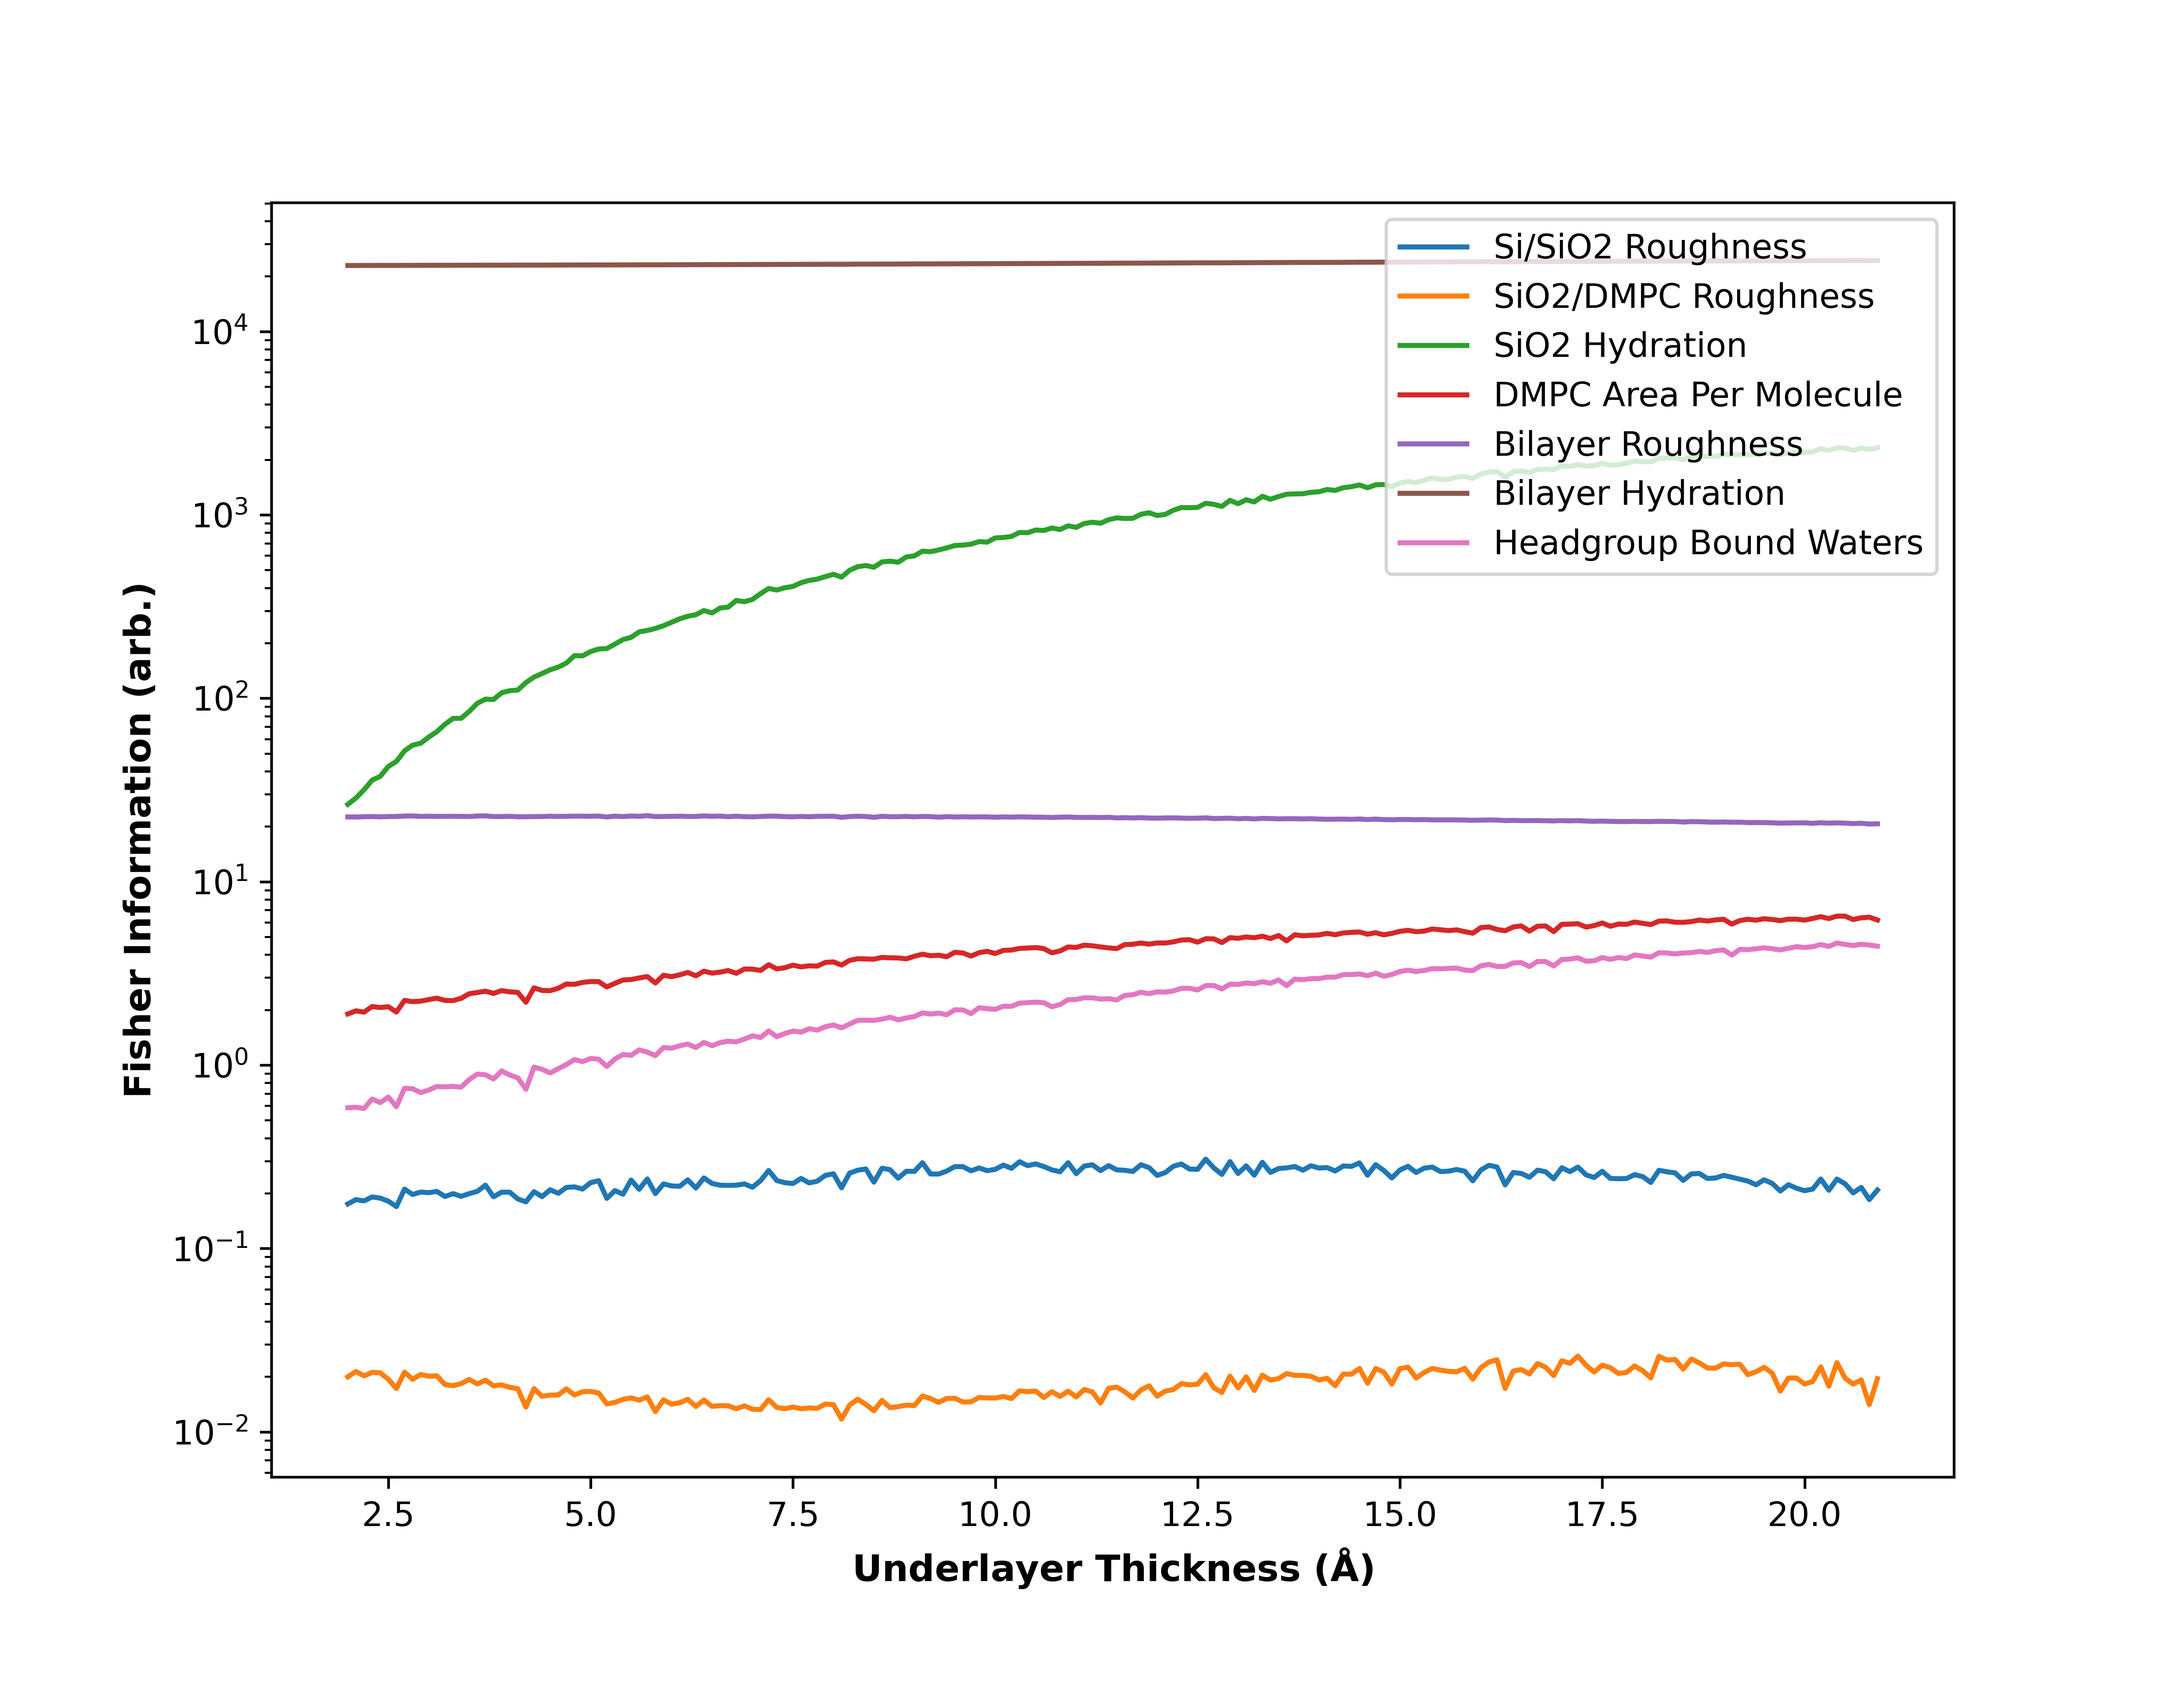
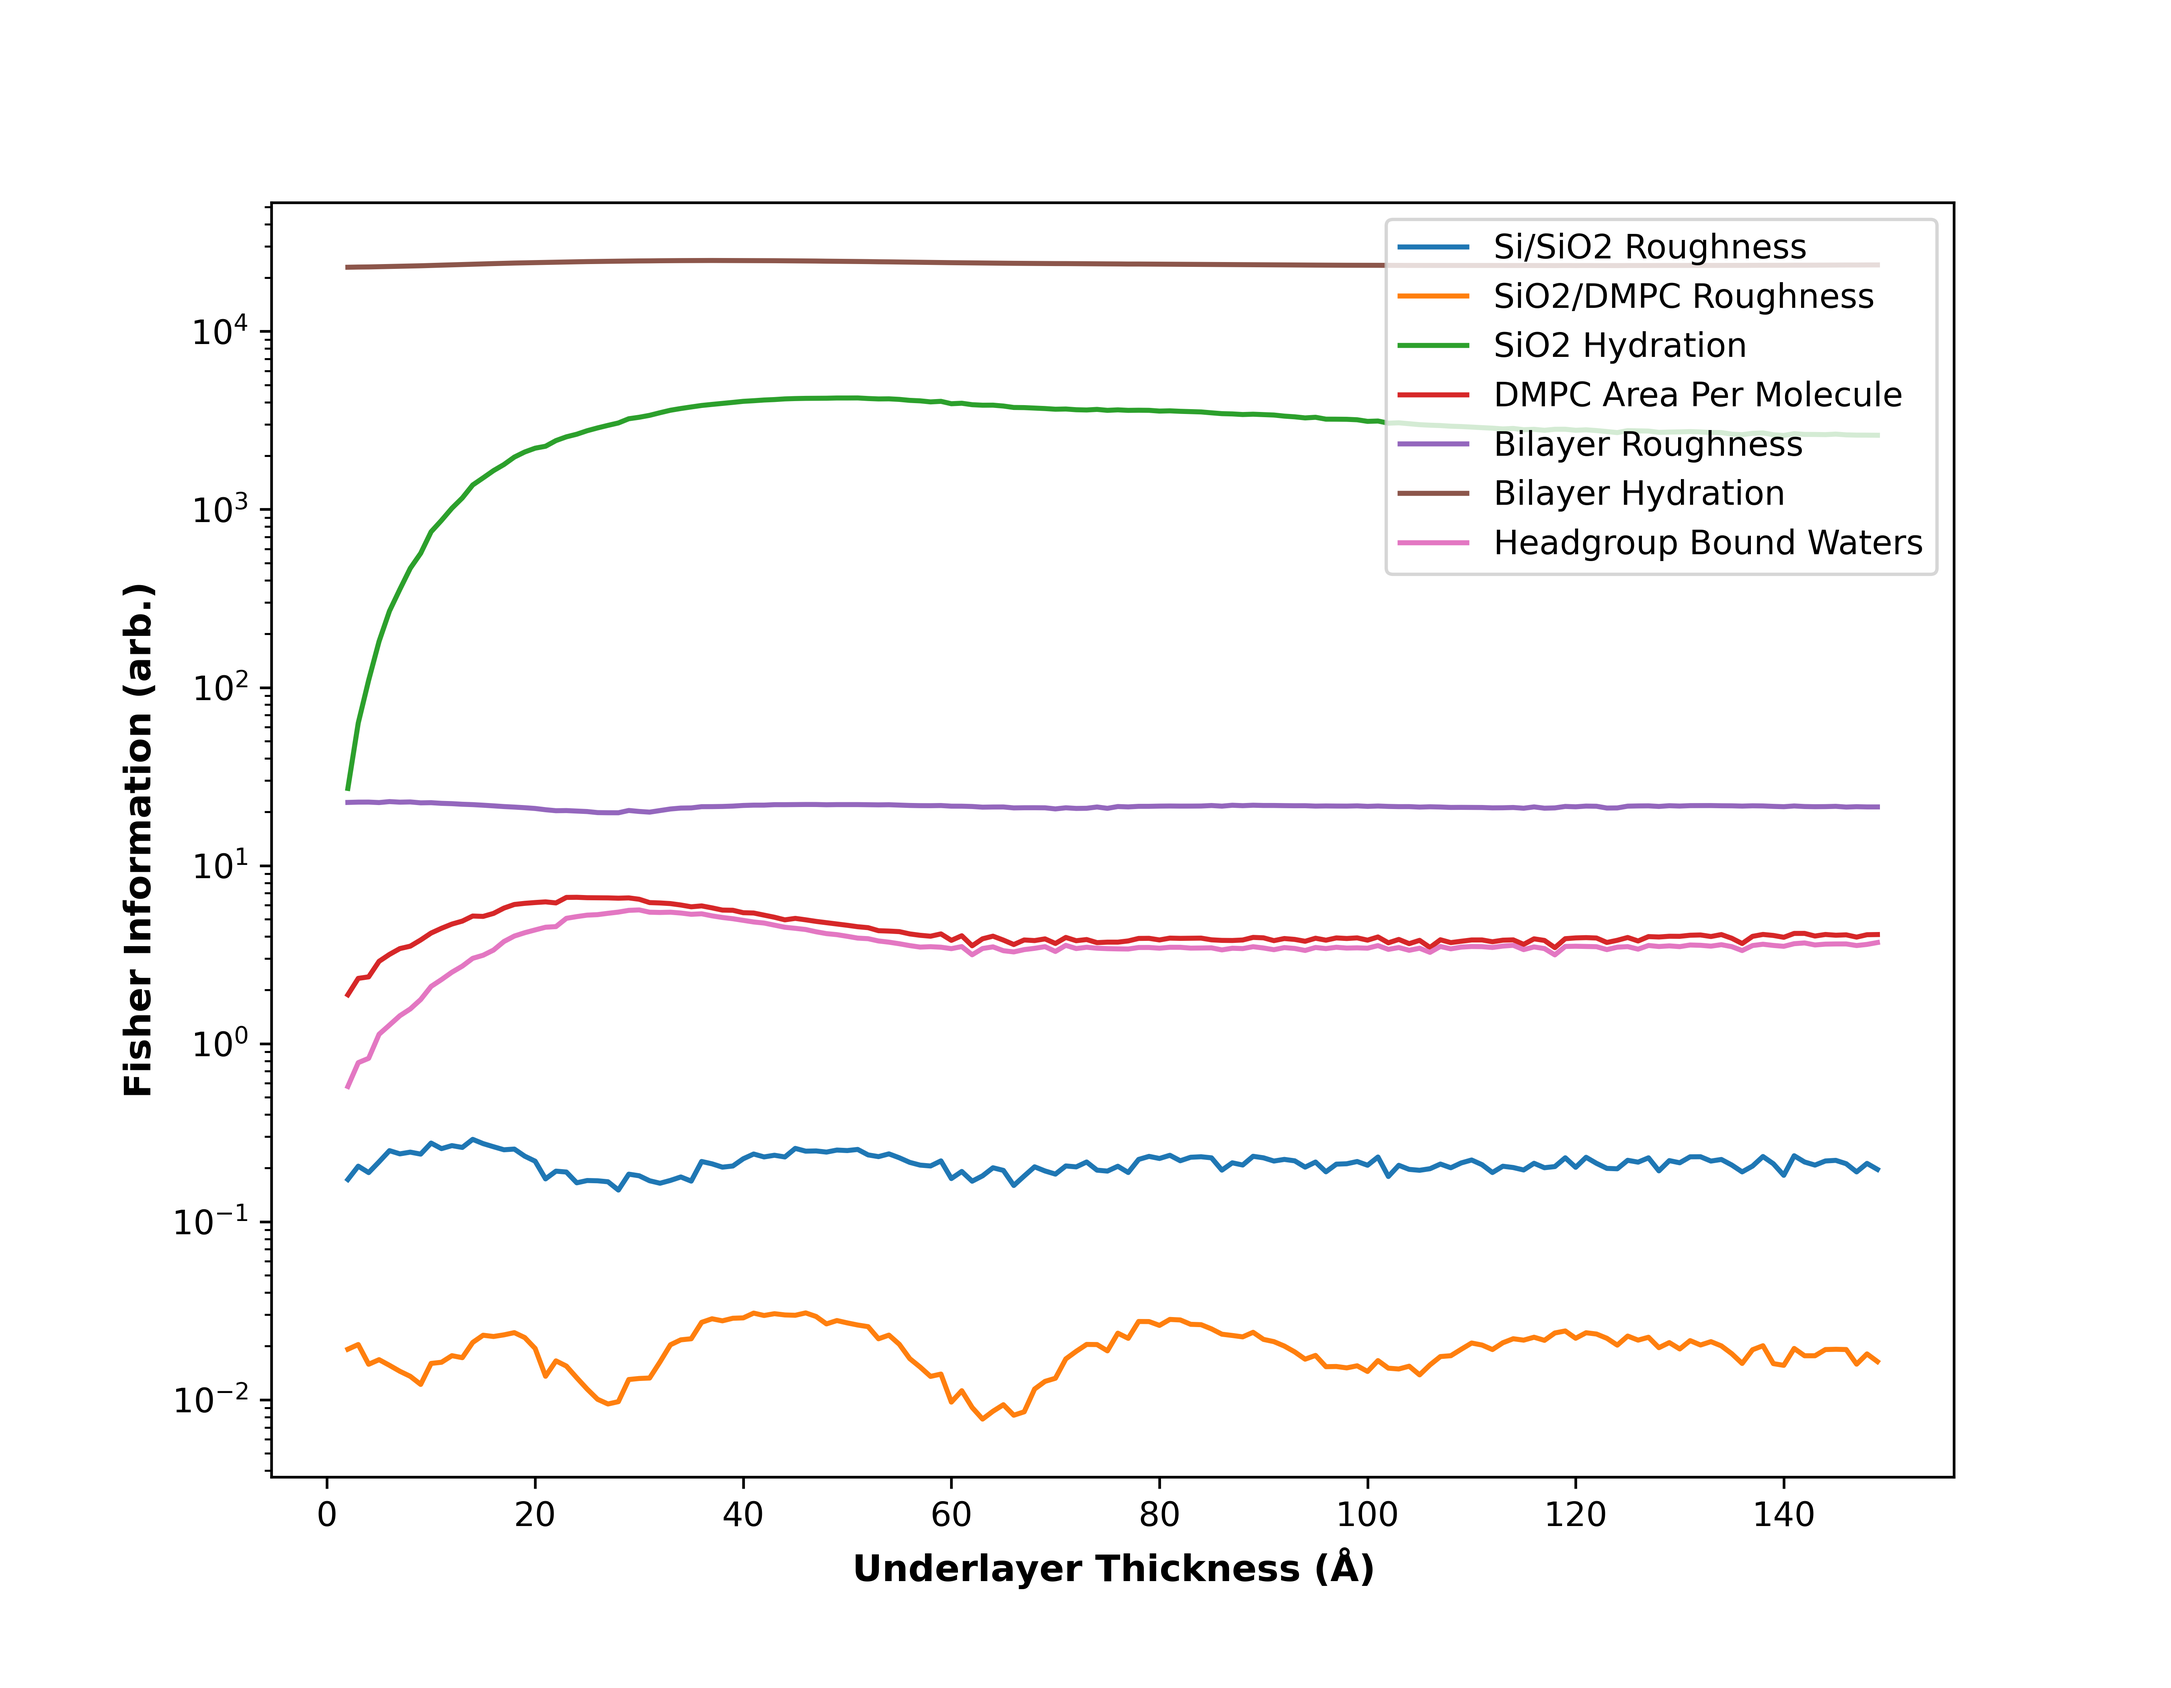
Updated underlayer results

diff --git a/fisher-information/experimental_design.py b/fisher-information/experimental_design.py
@@ -416,7 +416,7 @@ if __name__ == '__main__':
     second_contrast_choice(bilayer, initial_contrast, contrasts, angle_times, save_path)
 
     # Investigate how the FIM changes with SiO2 underlayer thickness.
-    thicknesses = np.arange(2, 21, 0.05)
+    thicknesses = np.arange(2, 200, 0.5)
     underlayer_choice(bilayer, thicknesses, initial_contrast, angle_times, save_path)
 
     from structures import similar_sld_sample_1, similar_sld_sample_2

diff --git a/demo/underlayer.py b/demo/underlayer.py
@@ -83,7 +83,7 @@ angle_times = {2.3: (70, 4)} # Angle: (Points, Time)
 contrast_sld = 6.35 # SLD of contrast being simulated.
 
 # Underlayer thicknesses to calculate the FIM over.
-thicknesses = np.arange(2, 21, 0.1)
+thicknesses = np.arange(2, 150, 1)
 
 # Investigate how the FIM changes with underlayer thickness.
 underlayer_choice(Bilayer(), thicknesses, contrast_sld, angle_times, './results')
